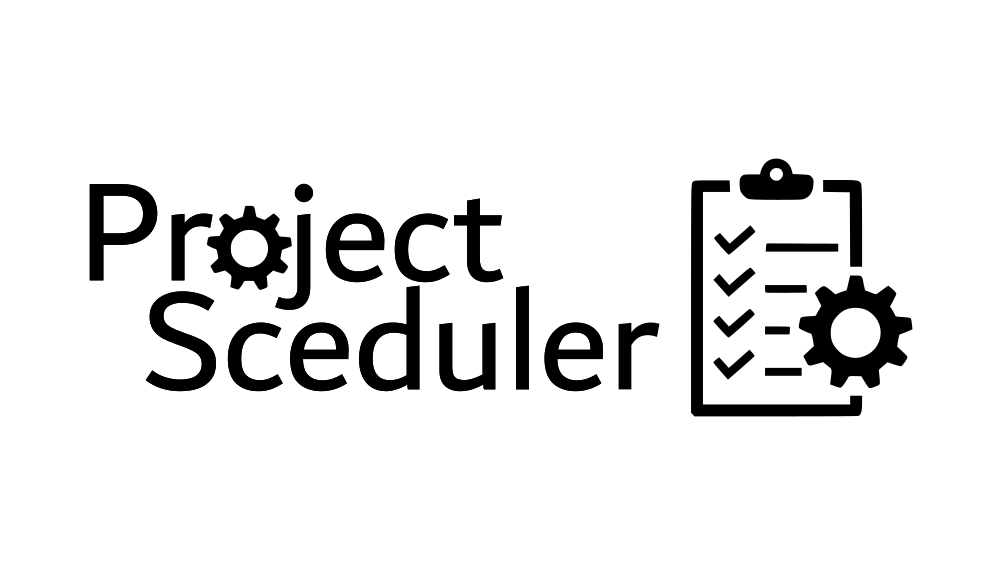
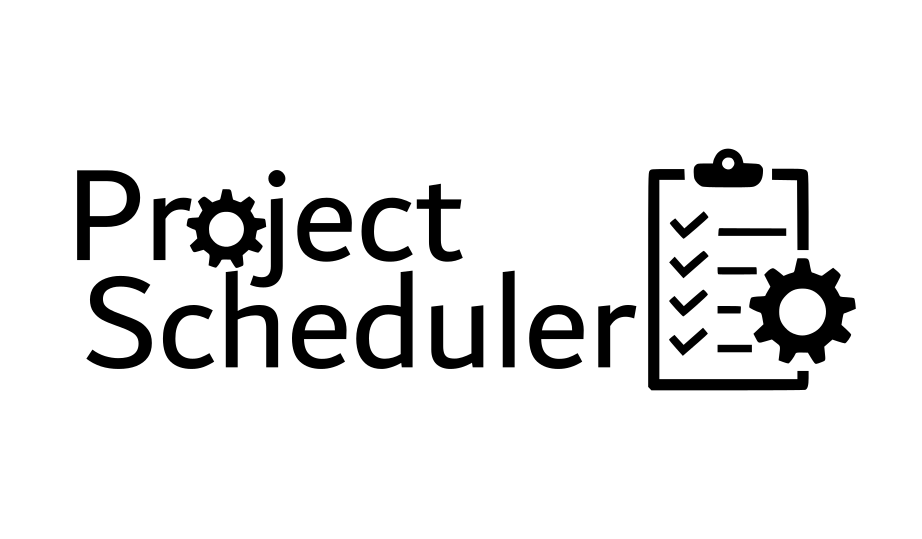
name change (cause last was wrong)

Changed region(s): [[0.0607, 0.2968, 0.6985, 0.6827], [0.7289, 0.6827, 0.8807, 0.7124], [0.7896, 0.4156, 0.8503, 0.4453]]

diff --git a/projectScheduler.py b/projectScheduler.py
@@ -1,10 +1,8 @@
 from kivy.lang import Builder
 from kivy.metrics import dp
 
-from kivy.uix.label import Label
 from kivy.uix.boxlayout import BoxLayout
 from kivy.uix.gridlayout import GridLayout
-from kivy.uix.image import Image
 
 from kivy.config import Config
 from kivy.core.window import Window
@@ -14,13 +12,11 @@ from kivymd.uix.datatables import MDDataTable
 from kivymd.uix.pickers import MDDatePicker
 from kivymd.uix.dialog import MDDialog
 from kivymd.uix.button import MDFlatButton
-from kivymd.uix.label import MDIcon
 
 from datetime import datetime
 
 from os.path import exists
 from dbSetup import get_data, update_item, add_item, delete_item, create_tables
-import time
 
 Builder.load_file('styles.kv')
 Config.set('graphics', 'resizable', True)
@@ -102,7 +98,7 @@ class TheButtons(BoxLayout):
 
         add_item(new_name, new_date, new_progress)
         update_data()
-        self.parent.updateTable()
+        self.parent.update_table()
 
     def close_alert(self, obj):
         self.dialog.dismiss()
@@ -141,7 +137,7 @@ class TheButtons(BoxLayout):
 
         update_item(old_id, new_name, new_date, new_progress)
         update_data()
-        self.parent.updateTable()
+        self.parent.update_table()
 
     def delete(self):
         old_id = self.parent.pickedItem.ids.wid_tf.text
@@ -169,7 +165,7 @@ class TheButtons(BoxLayout):
 
         delete_item(old_id)
         update_data()
-        self.parent.updateTable()
+        self.parent.update_table()
 
     def clear(self):
         self.parent.pickedItem.ids.wid_tf.text = ''
@@ -189,11 +185,10 @@ class MainBox(BoxLayout):
             size_hint=(0.9, 0.6),
             column_data=[
                 ("ID", dp(10)),
-                ("Project Name", dp(60)),
-                ("Days Left", dp(20)),
+                ("Project Name", dp(60), self.sort_on_name),
+                ("Days Left", dp(20), self.sort_on_days_left),
                 ("Progress", dp(20))
             ],
-            sorted_on="Days Left",
             use_pagination=True,
             row_data=convert_data()
         )
@@ -203,7 +198,15 @@ class MainBox(BoxLayout):
         self.buttons = TheButtons()
         self.add_widget(self.buttons)
 
-    def updateTable(self):
+    # sorting functions
+    def sort_on_name(self, data):
+        return zip(*sorted(enumerate(data), key=lambda l: l[1][1]))
+
+    def sort_on_days_left(self, data):
+        return zip(*sorted(enumerate(data), key=lambda l: l[1][2]))
+
+    # button functions
+    def update_table(self):
         update_data()
         self.table.update_row_data(self.table, convert_data())
 
@@ -216,11 +219,10 @@ class MainBox(BoxLayout):
     def on_row_press(self, instance_table, instance_row):
         table_range = instance_row.table.recycle_data[instance_row.index]["range"]
         pass_values = []
-        for index in range(table_range[0], table_range[1]+1):
+        for index in range(table_range[0], table_range[1] + 1):
             pass_values.append(instance_row.table.recycle_data[index]["text"])
 
-        pass_values = (
-            [item for item in project_data if item[0] == int(pass_values[0])])
+        pass_values = ([item for item in project_data if item[0] == int(pass_values[0])])
 
         self.pickedItem.ids.wid_tf.text = str(pass_values[0][0])
         self.pickedItem.ids.name_tf.text = str(pass_values[0][1])
@@ -228,12 +230,12 @@ class MainBox(BoxLayout):
         self.pickedItem.ids.progress_tf.text = str(pass_values[0][3])
 
 
-class ProjectSceduler(MDApp):
+class ProjectScheduler(MDApp):
     def build(self):
         box = MainBox()
         self.theme_cls.theme_style = "Light"
         self.icon = 'icons/icon2.png'
-        self.title = "Project Sceduler"
+        self.title = "Project Scheduler"
         return box
 
 
@@ -245,4 +247,4 @@ if __name__ == "__main__":
     project_data = get_data()
 
     Window.size = (800, 800)
-    ProjectSceduler().run()
+    ProjectScheduler().run()
